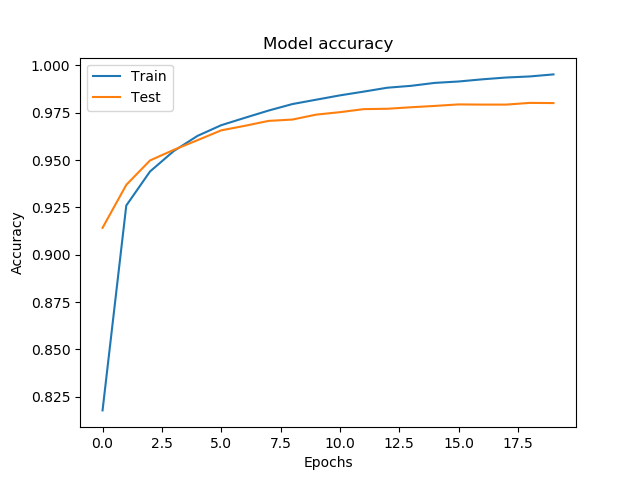
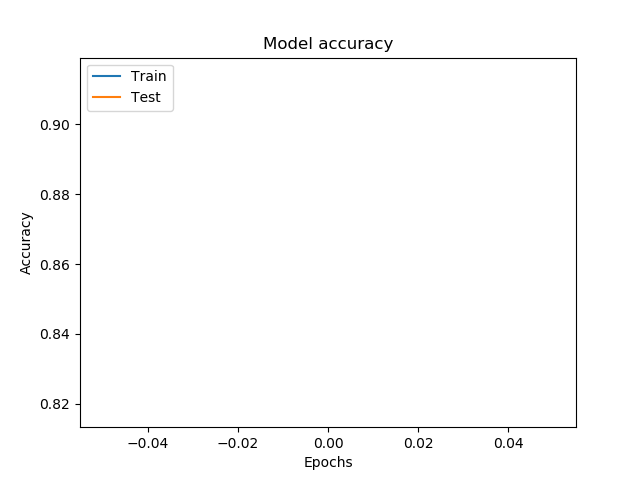
changed plot script

diff --git a/Problem Set 2/MNIST/mnist.py b/Problem Set 2/MNIST/mnist.py
@@ -3,6 +3,7 @@ import matplotlib.pyplot as plt
 from keras.models import Sequential
 from keras.layers import Dense
 from keras.layers import Dropout
+from matplotlib.lines import Line2D
 
 seed = 7
 np.random.seed(seed)
@@ -48,18 +49,31 @@ def plot_weights_biases(model):
     wb = []
     for i, matrix in enumerate(model.get_weights()):
         layer = int(i / 2) + 1
+        max_val = np.max(matrix)
+        min_val = np.min(matrix)
+        mean_val = np.mean(matrix)
         if i % 2:
-            val = np.max(matrix)
-            wb.append(('Bias '+str(layer), val))
+            wb.append(('Bias '+str(layer), max_val, 'c'))
+            wb.append(('Bias '+str(layer), min_val, 'y'))
+            wb.append(('Bias '+str(layer), mean_val, 'm'))
+
         else:
-            val = np.max(np.mean(matrix, axis=0))
-            wb.append(('Weight '+str(layer), val))
+            wb.append(('Weight '+str(layer), max_val, 'c'))
+            wb.append(('Weight '+str(layer), min_val, 'y'))
+            wb.append(('Weight '+str(layer), mean_val, 'm'))
+
     labels = [v[0] for v in wb]
     values = [v[1] for v in wb]
-    plt.scatter(labels, values)
+    colors = [v[2] for v in wb]
+    plt.scatter(labels, values, c=colors)
 
     plt.title('Analyzing weights and biases')
-    plt.ylabel('Maximum value')
+    plt.ylabel('Values')
+    elements = \
+        [Line2D([0], [0], marker='o', color='c', label='Maximum'),
+        Line2D([0], [0], marker='o', color='y', label='Minimum'),
+        Line2D([0], [0], marker='o', color='m', label='Mean')]
+    plt.legend(handles=elements, loc='upper left')
     f.savefig('wb.png')
 
 def find_errors(model, x_test, y_test, limit=10):
@@ -76,7 +90,7 @@ def find_errors(model, x_test, y_test, limit=10):
 if __name__ == '__main__':
     x_train, y_train, x_test, y_test = load_data()
     model = build_model()
-    history = model.fit(x_train, y_train, validation_data=(x_test, y_test), epochs=20, batch_size=2000, verbose=2)
+    history = model.fit(x_train, y_train, validation_data=(x_test, y_test), epochs=1, batch_size=2000, verbose=2)
     plot_scores(history.history)
     plot_weights_biases(model)
     find_errors(model, x_test, y_test)
